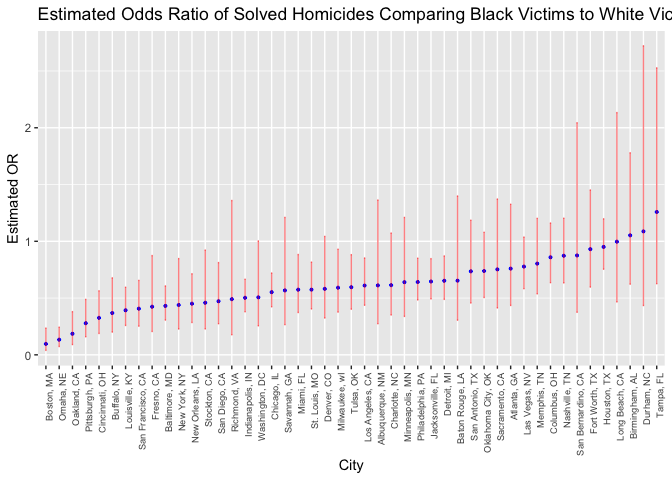
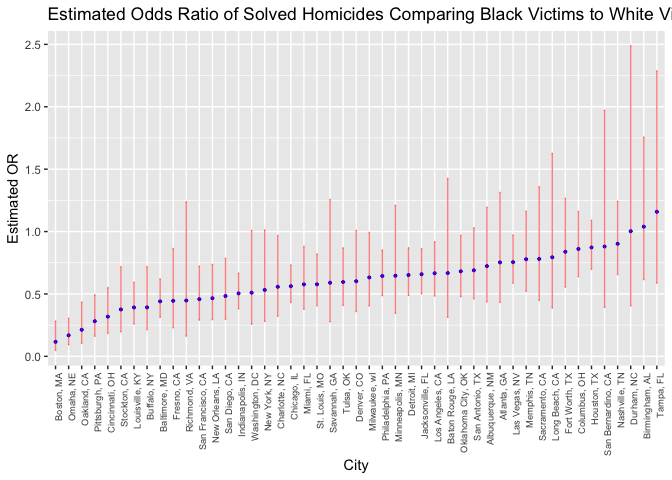
editing

Changed region(s): [[0.0312, 0.0, 1.0, 0.9375], [0.5, 0.9375, 0.5625, 1.0]]

diff --git a/p8105_hw6_kb2977.md b/p8105_hw6_kb2977.md
@@ -43,7 +43,7 @@ homicide_data = homicide_data %>%
 homicide_data = homicide_data[!(homicide_data$city_state %in% c("Dallas, TX", "Phoenix, AZ", "Kansas City, MO", "Tulsa, AL")), ]
 ```
 
--   Modified victim\_race to have categories white and non-white, with white as the reference category. Be sure that victim\_age is numeric.
+-   Modified victim\_race to have categories white and non-white, with white as the reference category. Be sure that victim\_age is numeric. I also got rid of unknown values for victim\_race.
 
 ``` r
 homicide_data = 
@@ -55,7 +55,8 @@ homicide_data =
                          "Other" = "non-white",
                          "Asian" = "non-white")) %>% 
   mutate(victim_race_cat = fct_infreq(victim_race_cat)) %>% 
-  mutate(victim_age = as.numeric(victim_age))
+  mutate(victim_age = as.numeric(victim_age)) %>% 
+  filter(!victim_race_cat == "unknown")
 ```
 
     ## Warning in evalq(as.numeric(victim_age), <environment>): NAs introduced by
@@ -63,14 +64,14 @@ homicide_data =
 
 #### Part 2: Baltimore, MD
 
--   For the city of Baltimore, MD, I used the glm function to fit a logistic regression with resolved vs unresolved as the outcome and victim age, sex and race (as just defined) as predictors. Save the output of glm as an R object; apply the broom::tidy to this object; and obtain the estimate and confidence interval of the adjusted odds ratio for solving homicides comparing black victims to white victims keeping all other variables fixed.
+-   For the city of Baltimore, MD, I used the glm function to fit a logistic regression with resolved vs unresolved as the outcome and victim age, sex and race (as just defined) as predictors. Save the output of glm as an R object; apply the broom::tidy to this object; and obtain the estimate and confidence interval of the adjusted odds ratio for solving homicides comparing non-white victims to white victims keeping all other variables fixed.
 
 ``` r
 logistic_balt = 
   homicide_data %>% 
-  filter(city_state == "Baltimore, MD") %>% 
-  mutate(victim_race = fct_relevel(victim_race, "White")) %>% 
-  glm(solved ~ victim_age + victim_sex + victim_race, data = ., family = binomial()) %>% 
+  filter(city_state == "Baltimore, MD") %>%
+  mutate(victim_race_cat = fct_relevel(victim_race_cat, "White")) %>% 
+  glm(solved ~ victim_age + victim_sex + victim_race_cat, data = ., family = binomial()) %>% 
   broom::tidy() 
 
 logistic_balt %>% 
@@ -78,14 +79,14 @@ logistic_balt %>%
   mutate(OR = exp(estimate)) %>% 
   mutate(lower_CI = exp(estimate - (1.96 * std.error)),
         upper_CI = exp(estimate + (1.96 * std.error))) %>% 
-  filter(term == "victim_raceBlack") %>% 
+  filter(term == "victim_race_catnon-white") %>% 
   select(OR, lower_CI, upper_CI) %>% 
   knitr::kable(digits = 3)
 ```
 
 |     OR|  lower\_CI|  upper\_CI|
 |------:|----------:|----------:|
-|  0.431|      0.306|      0.607|
+|  0.441|      0.313|       0.62|
 
 #### Part 3: GLM for Each City
 
@@ -96,14 +97,14 @@ CI_for_each_city = function(each_city){
 
   CI = homicide_data %>% 
   filter(city_state == each_city) %>% 
-  mutate(victim_race = fct_relevel(victim_race, "White")) %>% 
-  glm(solved ~ victim_age + victim_sex + victim_race, data = ., family = binomial()) %>% 
+  mutate(victim_race_cat = fct_relevel(victim_race_cat, "White")) %>% 
+  glm(solved ~ victim_age + victim_sex + victim_race_cat, data = ., family = binomial()) %>% 
   broom::tidy() %>% 
   select(term, estimate, std.error) %>% 
   mutate(OR = exp(estimate)) %>% 
   mutate(lower_CI = exp(estimate - (1.96 * std.error)),
         upper_CI = exp(estimate + (1.96 * std.error))) %>% 
-  filter(term == "victim_raceBlack") %>% 
+  filter(term == "victim_race_catnon-white") %>% 
   select(OR, lower_CI, upper_CI) 
   
 CI
@@ -125,53 +126,53 @@ nest_glm_results %>%
 
 | city\_state        |     OR|  lower\_CI|  upper\_CI|
 |:-------------------|------:|----------:|----------:|
-| Albuquerque, NM    |  0.612|      0.274|      1.364|
-| Atlanta, GA        |  0.760|      0.435|      1.326|
-| Baltimore, MD      |  0.431|      0.306|      0.607|
-| Baton Rouge, LA    |  0.653|      0.305|      1.399|
-| Birmingham, AL     |  1.052|      0.622|      1.780|
-| Boston, MA         |  0.096|      0.039|      0.236|
-| Buffalo, NY        |  0.368|      0.200|      0.678|
-| Charlotte, NC      |  0.613|      0.351|      1.073|
-| Chicago, IL        |  0.552|      0.423|      0.721|
-| Cincinnati, OH     |  0.326|      0.188|      0.564|
-| Columbus, OH       |  0.859|      0.636|      1.161|
-| Denver, CO         |  0.581|      0.324|      1.043|
-| Detroit, MI        |  0.652|      0.488|      0.871|
-| Durham, NC         |  1.087|      0.434|      2.722|
-| Fort Worth, TX     |  0.931|      0.597|      1.452|
-| Fresno, CA         |  0.424|      0.206|      0.874|
-| Houston, TX        |  0.951|      0.754|      1.198|
-| Indianapolis, IN   |  0.502|      0.379|      0.666|
-| Jacksonville, FL   |  0.646|      0.492|      0.847|
-| Las Vegas, NV      |  0.777|      0.583|      1.037|
-| Long Beach, CA     |  0.997|      0.466|      2.134|
-| Los Angeles, CA    |  0.610|      0.437|      0.853|
-| Louisville, KY     |  0.392|      0.259|      0.595|
-| Memphis, TN        |  0.804|      0.537|      1.202|
-| Miami, FL          |  0.574|      0.373|      0.884|
-| Milwaukee, wI      |  0.592|      0.376|      0.930|
-| Minneapolis, MN    |  0.640|      0.339|      1.210|
-| Nashville, TN      |  0.873|      0.633|      1.203|
-| New Orleans, LA    |  0.451|      0.285|      0.714|
-| New York, NY       |  0.439|      0.227|      0.848|
-| Oakland, CA        |  0.186|      0.091|      0.380|
-| Oklahoma City, OK  |  0.738|      0.505|      1.079|
-| Omaha, NE          |  0.134|      0.073|      0.244|
-| Philadelphia, PA   |  0.641|      0.483|      0.851|
-| Pittsburgh, PA     |  0.279|      0.159|      0.488|
-| Richmond, VA       |  0.490|      0.177|      1.359|
-| San Antonio, TX    |  0.735|      0.456|      1.186|
-| Sacramento, CA     |  0.753|      0.413|      1.373|
-| Savannah, GA       |  0.567|      0.266|      1.210|
-| San Bernardino, CA |  0.875|      0.375|      2.044|
-| San Diego, CA      |  0.472|      0.274|      0.813|
-| San Francisco, CA  |  0.407|      0.252|      0.656|
-| St. Louis, MO      |  0.574|      0.404|      0.817|
-| Stockton, CA       |  0.459|      0.228|      0.923|
-| Tampa, FL          |  1.258|      0.626|      2.528|
-| Tulsa, OK          |  0.596|      0.402|      0.882|
-| Washington, DC     |  0.506|      0.255|      1.003|
+| Albuquerque, NM    |  0.723|      0.438|      1.195|
+| Atlanta, GA        |  0.753|      0.432|      1.313|
+| Baltimore, MD      |  0.441|      0.313|      0.620|
+| Baton Rouge, LA    |  0.668|      0.313|      1.425|
+| Birmingham, AL     |  1.039|      0.615|      1.756|
+| Boston, MA         |  0.116|      0.048|      0.282|
+| Buffalo, NY        |  0.392|      0.214|      0.719|
+| Charlotte, NC      |  0.558|      0.321|      0.969|
+| Chicago, IL        |  0.562|      0.431|      0.733|
+| Cincinnati, OH     |  0.318|      0.184|      0.551|
+| Columbus, OH       |  0.861|      0.638|      1.161|
+| Denver, CO         |  0.602|      0.359|      1.009|
+| Detroit, MI        |  0.652|      0.488|      0.870|
+| Durham, NC         |  1.003|      0.404|      2.489|
+| Fort Worth, TX     |  0.838|      0.555|      1.266|
+| Fresno, CA         |  0.445|      0.229|      0.864|
+| Houston, TX        |  0.873|      0.699|      1.090|
+| Indianapolis, IN   |  0.505|      0.382|      0.667|
+| Jacksonville, FL   |  0.658|      0.502|      0.862|
+| Las Vegas, NV      |  0.755|      0.586|      0.972|
+| Long Beach, CA     |  0.794|      0.388|      1.626|
+| Los Angeles, CA    |  0.666|      0.483|      0.918|
+| Louisville, KY     |  0.392|      0.259|      0.593|
+| Memphis, TN        |  0.778|      0.521|      1.162|
+| Miami, FL          |  0.577|      0.377|      0.881|
+| Milwaukee, wI      |  0.632|      0.403|      0.991|
+| Minneapolis, MN    |  0.646|      0.345|      1.209|
+| Nashville, TN      |  0.902|      0.656|      1.241|
+| New Orleans, LA    |  0.466|      0.295|      0.737|
+| New York, NY       |  0.532|      0.280|      1.013|
+| Oakland, CA        |  0.213|      0.104|      0.435|
+| Oklahoma City, OK  |  0.681|      0.478|      0.971|
+| Omaha, NE          |  0.169|      0.093|      0.305|
+| Philadelphia, PA   |  0.644|      0.486|      0.852|
+| Pittsburgh, PA     |  0.282|      0.161|      0.493|
+| Richmond, VA       |  0.447|      0.162|      1.238|
+| San Antonio, TX    |  0.689|      0.461|      1.030|
+| Sacramento, CA     |  0.781|      0.449|      1.359|
+| Savannah, GA       |  0.590|      0.277|      1.257|
+| San Bernardino, CA |  0.880|      0.393|      1.972|
+| San Diego, CA      |  0.483|      0.298|      0.785|
+| San Francisco, CA  |  0.458|      0.290|      0.723|
+| St. Louis, MO      |  0.577|      0.406|      0.820|
+| Stockton, CA       |  0.376|      0.196|      0.719|
+| Tampa, FL          |  1.159|      0.587|      2.288|
+| Tulsa, OK          |  0.596|      0.408|      0.869|
+| Washington, DC     |  0.510|      0.258|      1.010|
 
 #### Part 4: Plot for Each City
 
@@ -194,7 +195,7 @@ OR_plot
 
 ![](p8105_hw6_kb2977_files/figure-markdown_github/OR%20plots-1.png)
 
-The odd ratios of solving homicides for black victims to white victims is highest for Tampa, FL and lowest for Boston, MA. Only about three cities (Birmingham, AL, Durham, NC, and Tampa, FL) have a odds ratio of greater than 1. The rest have an odds ratio of less than 1. This means that homicides in which the victim is black are substantially less likely to be resolved that those in which the victim is white Long Beach, CA seems to have an OR around 1 meaning the odds of solving homicides for black victims is similar, if not the same, to the odds of solving homicides for white victims in Long Beach, CA.
+The odd ratios of solving homicides for non-whites victims to white victims is highest for Tampa, FL and lowest for Boston, MA. Only about three cities (Birmingham, AL and Tampa, FL) have a odds ratio of greater than 1. The rest have an odds ratio of less than 1. This means that homicides in which the victims are non-white are substantially less likely to be resolved that those in which the victim is white. Durham, NC seems to have an OR around 1 meaning the odds of solving homicides for non-white victims is similar, if not the same, to the odds of solving homicides for white victims in Long Beach, CA.
 
 ### Problem 2:
 
